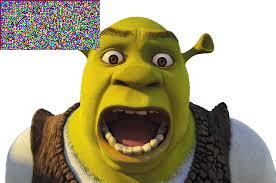
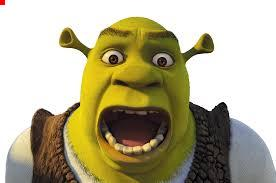
Dos funciones pequeñas más

Changed region(s): [[0.0, 0.0, 0.3768, 0.3005]]

diff --git a/src/imgproc/main.py b/src/imgproc/main.py
@@ -6,6 +6,32 @@ from PIL import Image
 from random import randint as rd
 import pprint as pp
 
+def rgbToHex(rgb: tuple) -> str:
+    """
+    Converts a tuple of RGB values to a hexadecimal color code.
+    """
+    if len(rgb) != 3:
+        raise ValueError("The tuple must contain 3 values.")
+    for i in rgb:
+        if i < 0 or i > 255:
+            raise ValueError("The rgb values must be between 0 and 255.")
+
+    return "#{:02X}{:02X}{:02X}".format(rgb[0], rgb[1], rgb[2])
+
+def hexToRgb(hex: str | int) -> tuple:
+    """
+    Converts a hexadecimal color code to a tuple of RGB values.
+    """
+    if type(hex) == int and hex < 0 or hex > 0xFFFFFF:
+        raise ValueError("The hex value must be between 0 and 0xFFFFFF.")
+    elif type(hex) == str and len(hex) != 7 and hex[0] != "#":
+        raise ValueError("The hex value must be a string of length 7.")
+
+    if type(hex) == str and hex[0] == "#":
+        return (int(hex[1:3], 16), int(hex[3:5], 16), int(hex[5:7], 16))
+    else:
+        return (int(hex[0:2], 16), int(hex[2:4], 16), int(hex[4:6], 16))
+
 def getColors(file: str, x: int = None, y: int = None, width: int = None, height: int = None) -> dict:
     """
     Returns a dictionary where the keys are the coordinates of the pixels and the values are the colors of each pixel
@@ -21,13 +47,13 @@ def getColors(file: str, x: int = None, y: int = None, width: int = None, height
         for i in range(height):
             for j in range(width):
                 color = image.getpixel((j, i))
-                color_hex = "#{:02X}{:02X}{:02X}".format(color[0], color[1], color[2])
+                color_hex = rgbToHex(color)
                 colors[(j, i)] = color_hex
     else:
         for i in range(y, height + y):
             for j in range(x, width + x):
                 color = image.getpixel((i, j))
-                color_hex = "#{:02X}{:02X}{:02X}".format(color[0], color[1], color[2])
+                color_hex = rgbToHex(color)
                 colors[(i, j)] = color_hex
     image.close()
 
@@ -65,9 +91,10 @@ def updatePixels(file: str, x: int, y: int, width: int, height: int, color: tupl
 if __name__ == '__main__':
 
     new = []
-    for _ in range(50):
-        for _ in range(100):
-            new.append((rd(0, 255), rd(0, 255), rd(0, 255)))
+    for _ in range(5):
+        for _ in range(5):
+            new.append((255, 0, 0))
 
-    updatePixels("data/shrek.jpg", 0, 0, 50, 100, new)
+    updatePixels("data/shrek.jpg", 0, 0, 5, 5, new)
+    pp.pprint(getColors("new_image.jpg", 0, 0, 5, 5))
 

diff --git a/src/imgproc/__init__.py b/src/imgproc/__init__.py
@@ -1,3 +1,3 @@
-from main import getPixels, updatePixels
+from main import getPixels, updatePixels, hexToRgb, rgbToHex
 
-__all__ = ["getPixels", "updatePixels"]
+__all__ = ["getPixels", "updatePixels", "hexToRgb", "rgbToHex"]
